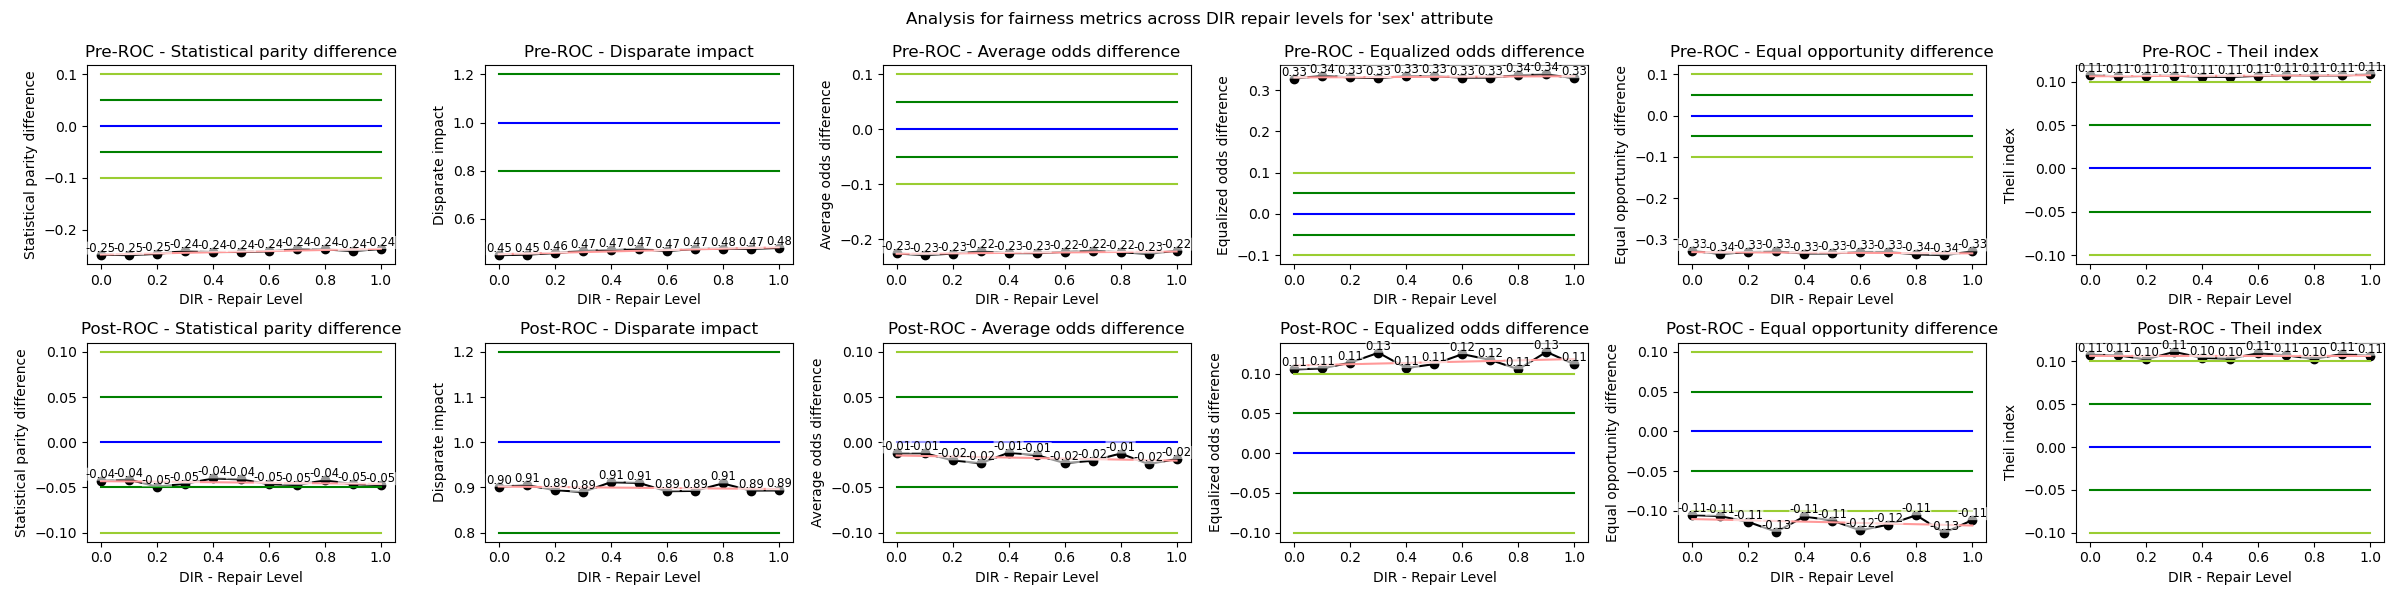
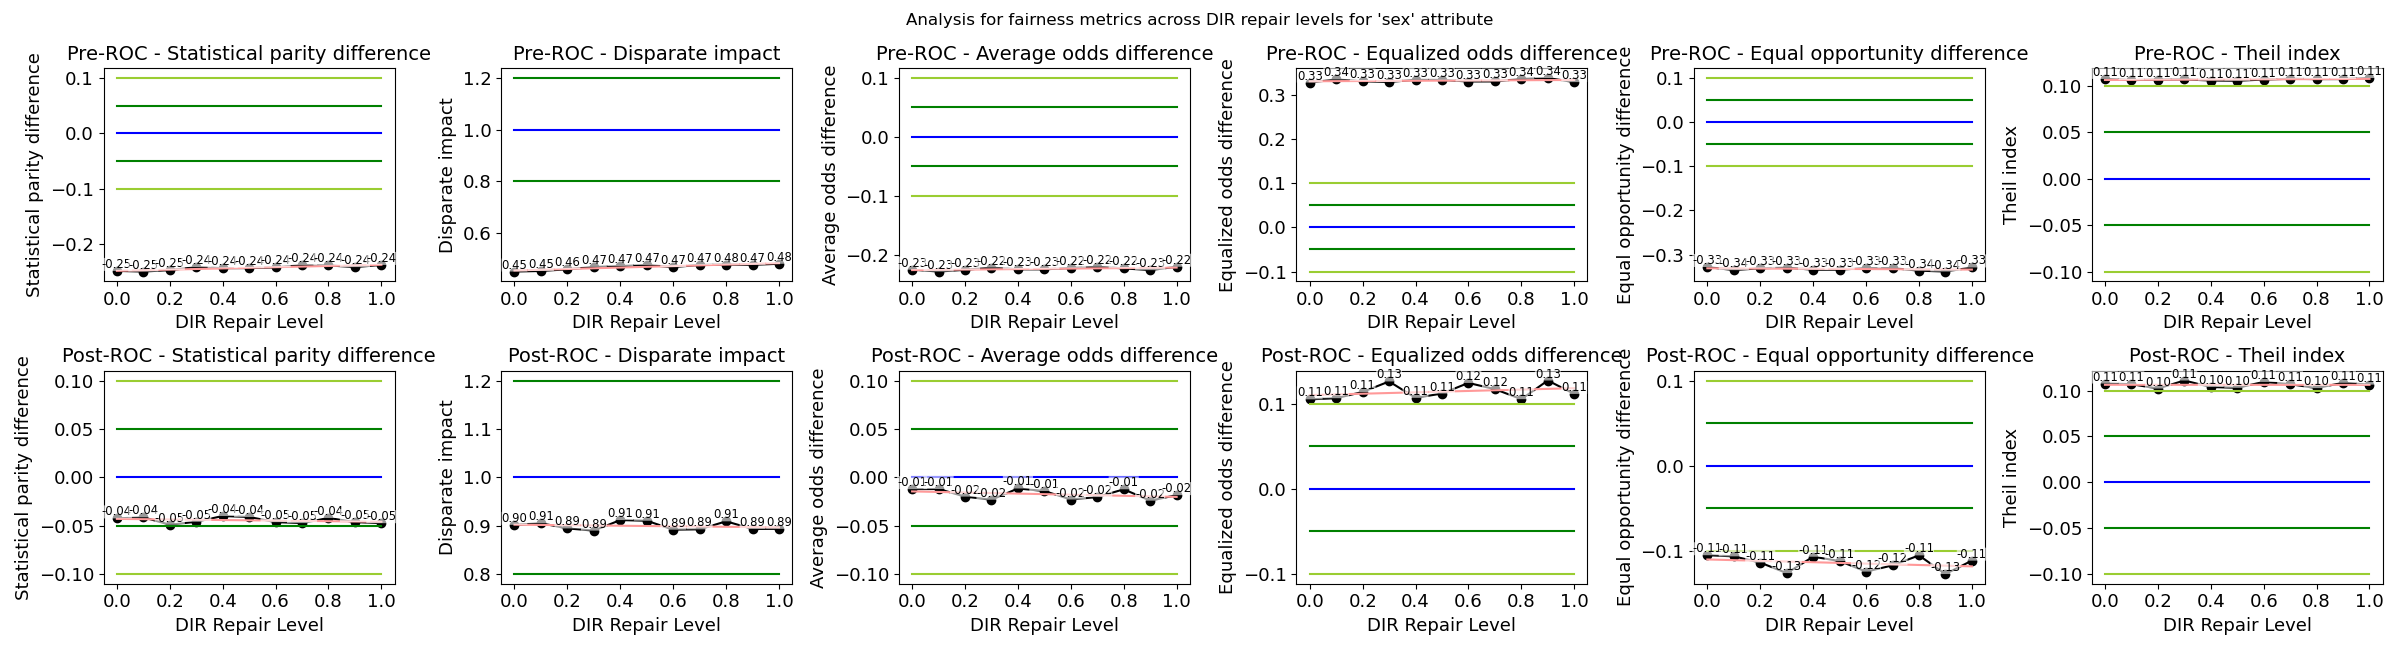
Further code & sample pic tweaks

diff --git a/adult_stats.py b/adult_stats.py
@@ -58,53 +58,60 @@ def plot_general_graph_func(dataset):
     race_acceptance_percent = race_acceptance.div(race_acceptance.sum(axis=1), axis=0) * 100
 
     # Plotting
+    plt.rc('xtick', labelsize=13)
+    plt.rc('ytick', labelsize=13)
     fig, axes = plt.subplots(2, 2, figsize=(7, 5))
+
 
     # Gender Proportions
     axes[0, 0].bar(gender_counts.index, gender_counts.values, color=['blue', 'pink'])
-    axes[0, 0].set_title('Gender Proportions')
-    axes[0, 0].set_ylabel('Percentage')
+    axes[0, 0].set_title('Gender Proportions', fontsize=14)
+    axes[0, 0].set_ylabel('Percentage', fontsize=12)
     axes[0, 0].set_ylim([0, 80])
     for i, v in enumerate(gender_counts.values):
-        axes[0, 0].text(i, v + 1, f"{v:.1f}%", ha='center', va='bottom')
+        axes[0, 0].text(i, v + 1, f"{v:.1f}%", ha='center', va='bottom', fontsize=12, fontweight='bold')
 
     # Gender acceptance/rejection with percentages
     gender_acceptance.plot(kind='bar', stacked=True, color=['lightgreen', 'salmon'], ax=axes[0, 1])
-    axes[0, 1].set_title('Gender Acceptance Rates')
-    axes[0, 1].set_ylabel('Count')
+    axes[0, 1].set_title('Gender Acceptance Rates', fontsize=14)
+    axes[0, 1].set_ylabel('Count', fontsize=12)
     axes[0, 1].set_xticklabels(gender_acceptance.index, rotation=0)  # set x-axis labels
-    axes[0, 1].legend(fontsize="medium")
+    axes[0, 1].legend(fontsize=11)
 
     # Annotate with percentages
     for i, gender in enumerate(gender_acceptance.index):
         if 'Accepted' in gender_acceptance.columns:  # Check if the 'Accepted' category exists
-            count_accepted = gender_acceptance.loc[gender, 'Accepted']
+            count_accepted = gender_acceptance.loc[gender, 'Rejected']
             percent_accepted = gender_acceptance_percent.loc[gender, 'Accepted']
             # Position the annotation at the top of the 'Accepted' bar
-            axes[0, 1].text(i, count_accepted, f"{percent_accepted:.1f}%", ha='center', va='bottom', fontweight='bold')
+            axes[0, 1].text(i, count_accepted, f"{percent_accepted:.1f}%", ha='center', va='top', fontweight='bold',
+                            fontsize=12,
+                            bbox=dict(boxstyle="round,pad=0.2", facecolor='white', edgecolor='none', alpha=0.6))
 
     # Race Proportions
     axes[1, 0].bar(race_counts.index, race_counts.values, color=['blue', 'orange'])
-    axes[1, 0].set_title('Race Proportions')
-    axes[1, 0].set_ylabel('Percentage')
+    axes[1, 0].set_title('Race Proportions', fontsize=14)
+    axes[1, 0].set_ylabel('Percentage', fontsize=12)
     axes[1, 0].set_ylim([0, 90])
     for i, v in enumerate(race_counts.values):
-        axes[1, 0].text(i, v + 1, f"{v:.1f}%", ha='center', va='bottom')
+        axes[1, 0].text(i, v + 1, f"{v:.1f}%", ha='center', va='bottom', fontsize=12, fontweight='bold')
 
     # Race acceptance/rejection with percentages
     race_acceptance.plot(kind='bar', stacked=True, color=['lightgreen', 'salmon'], ax=axes[1, 1])
-    axes[1, 1].set_title('Race Acceptance Rates')
-    axes[1, 1].set_ylabel('Count')
+    axes[1, 1].set_title('Race Acceptance Rates', fontsize=14)
+    axes[1, 1].set_ylabel('Count', fontsize=12)
     axes[1, 1].set_xticklabels(race_acceptance.index, rotation=0)  # set x-axis labels
-    axes[1, 1].legend(fontsize="medium")
+    axes[1, 1].legend(fontsize=11)
 
     # Annotate with percentages
     for i, race in enumerate(race_acceptance.index):
         if 'Accepted' in race_acceptance.columns:
-            count_accepted = race_acceptance.loc[race, 'Accepted']
+            count_accepted = race_acceptance.loc[race, 'Rejected']
             percent_accepted = race_acceptance_percent.loc[race, 'Accepted']
             # Position the annotation at the top of the 'Accepted' bar
-            axes[1, 1].text(i, count_accepted, f"{percent_accepted:.1f}%", ha='center', va='bottom', fontweight='bold')
+            axes[1, 1].text(i, count_accepted, f"{percent_accepted:.1f}%", ha='center', va='top', fontweight='bold',
+                            fontsize=12,
+                            bbox=dict(boxstyle="round,pad=0.2", facecolor='white', edgecolor='none', alpha=0.6))
 
     plt.tight_layout()
     plt.savefig('generated-pics/adult_stats_general.png')
@@ -130,31 +137,34 @@ def plot_bigger_race_graph_func(dataset):
     race_acceptance_percent = race_acceptance.div(race_acceptance.sum(axis=1), axis=0) * 100
 
     # Plotting
-    fig, axes = plt.subplots(1, 2, figsize=(8, 3.5))
+    fig, axes = plt.subplots(1, 2, figsize=(8, 3.7))
 
     # Race proportions
     axes[0].bar(race_counts.index, race_counts.values, color=['blue', 'orange', 'green', 'red', 'purple'])
-    axes[0].set_title('Race Proportions')
-    axes[0].set_ylabel('Percentage')
+    axes[0].set_title('Race Proportions', fontsize=15)
+    axes[0].set_ylabel('Percentage', fontsize=12)
     axes[0].set_ylim([0, max(race_counts.values) + 10])  # Adjust y-limit to fit all text labels
-    axes[0].tick_params(axis='x', labelrotation=45, labelsize='small')
+    axes[0].tick_params(axis='x', labelrotation=45, labelsize=10)
+    axes[0].tick_params(axis='y', labelsize=12)
     for i, v in enumerate(race_counts.values):
-        axes[0].text(i, v + 1, f"{v:.1f}%", ha='center', va='bottom')
+        axes[0].text(i, v + 1, f"{v:.1f}%", ha='center', va='bottom', fontweight='bold', fontsize=12)
 
     # Race acceptance/rejection with percentages
     race_acceptance.plot(kind='bar', stacked=True, color=['lightgreen', 'salmon'], ax=axes[1])
-    axes[1].set_title('Race Acceptance Rates')
-    axes[1].set_ylabel('Count')
-    axes[1].set_xticklabels(race_order_full, rotation=45)
-    axes[1].tick_params(axis='x', labelsize='small')
-    axes[1].legend(fontsize="medium")
+    axes[1].set_title('Race Acceptance Rates', fontsize=15)
+    axes[1].set_ylabel('Count', fontsize=12)
+    axes[1].tick_params(axis='x', labelrotation=45, labelsize=10)
+    axes[1].tick_params(axis='y', labelsize=12)
+    axes[1].legend(fontsize=13)
 
     # Annotate with acceptance percentages only
     for i, race in enumerate(race_order_full):
         if 'Accepted' in race_acceptance.columns:
-            count_accepted = race_acceptance.loc[race, 'Accepted']
+            count_accepted = race_acceptance.loc[race, 'Rejected']
             percent_accepted = race_acceptance_percent.loc[race, 'Accepted']
-            axes[1].text(i, count_accepted, f"{percent_accepted:.1f}%", ha='center', va='bottom', fontweight='bold')
+            axes[1].text(i, count_accepted, f"{percent_accepted:.1f}%",
+                         ha='center', va='bottom', fontweight='bold', fontsize=12,
+                         bbox=dict(boxstyle="round,pad=0.2", facecolor='white', edgecolor='none', alpha=0.6))
 
     plt.tight_layout()
     plt.savefig('generated-pics/adult_stats_races.png')

diff --git a/data_visualizer.py b/data_visualizer.py
@@ -21,14 +21,14 @@ show_new_graphs = True
 # **** FOR METRIC GRAPHS ONLY ****
 
 # WHETHER TO GENERATE METRIC GRAPHS
-generate_metric_graphs = False
+generate_metric_graphs = True
 
 # WHETHER TO GENERATE TITLE
 generate_metric_graph_titles = True
 generate_metric_graph_super_title = True
 
 # WHETHER TO DISPLAY Y-AXIS LABEL
-generate_metric_graph_y_label = False
+generate_metric_graph_y_label = True
 
 # FAIRNESS METRICS TO SHOW:
 selected_fair_metric_names = ["Statistical parity difference", "Disparate impact", "Average odds difference",
@@ -43,7 +43,7 @@ selected_acc_metric_names = ["True positive rate", "False positive rate", "True 
 generate_pareto_fronts = True
 
 # WHETHER TO MENTION PROTECTED ATTRIBUTE IN TITLE
-protected_attr_in_title = False
+protected_attr_in_title = True
 
 # FAIRNESS METRIC (0 to 5):
 fairness_metric_index = 0

diff --git a/roc-postprocess_log-reg_graphing.py b/roc-postprocess_log-reg_graphing.py
@@ -17,13 +17,13 @@ from aif360.metrics import BinaryLabelDatasetMetric, ClassificationMetric
 dataset_file_name = "adult.data_cleaned"
 
 # WHETHER TO SHOW GRAPHS UPON COMPLETION
-show_graphs = False
+show_all_graphs = True
 
 # WHETHER TO PRINT GRAPH TITLES
 print_titles = True
 
 # WHETHER TO PRINT GRAPH Y-AXIS LABELS
-print_y_labels = False
+print_y_labels = True
 
 # ************************************************ END CUSTOMIZATION ************************************************
 
@@ -370,7 +370,7 @@ def generate_graphs_and_txt(protected_attribute, filename, fairness_graph_data_p
     plt.suptitle(f"Protected attribute: {protected_attribute}")
     plt.tight_layout()
     plt.savefig(f"generated-pics/{filename}.png")
-    if show_graphs:
+    if show_all_graphs:
         plt.show()
 
     print("Graphs generated successfully")
